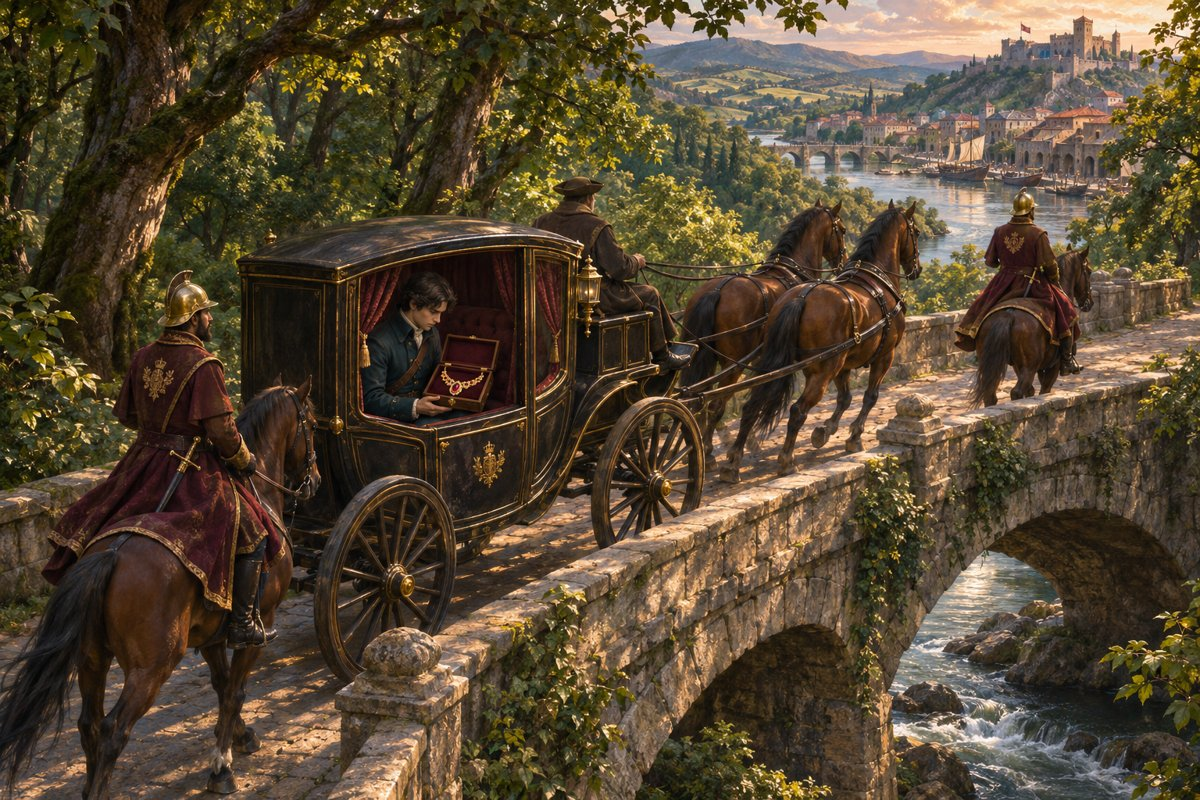
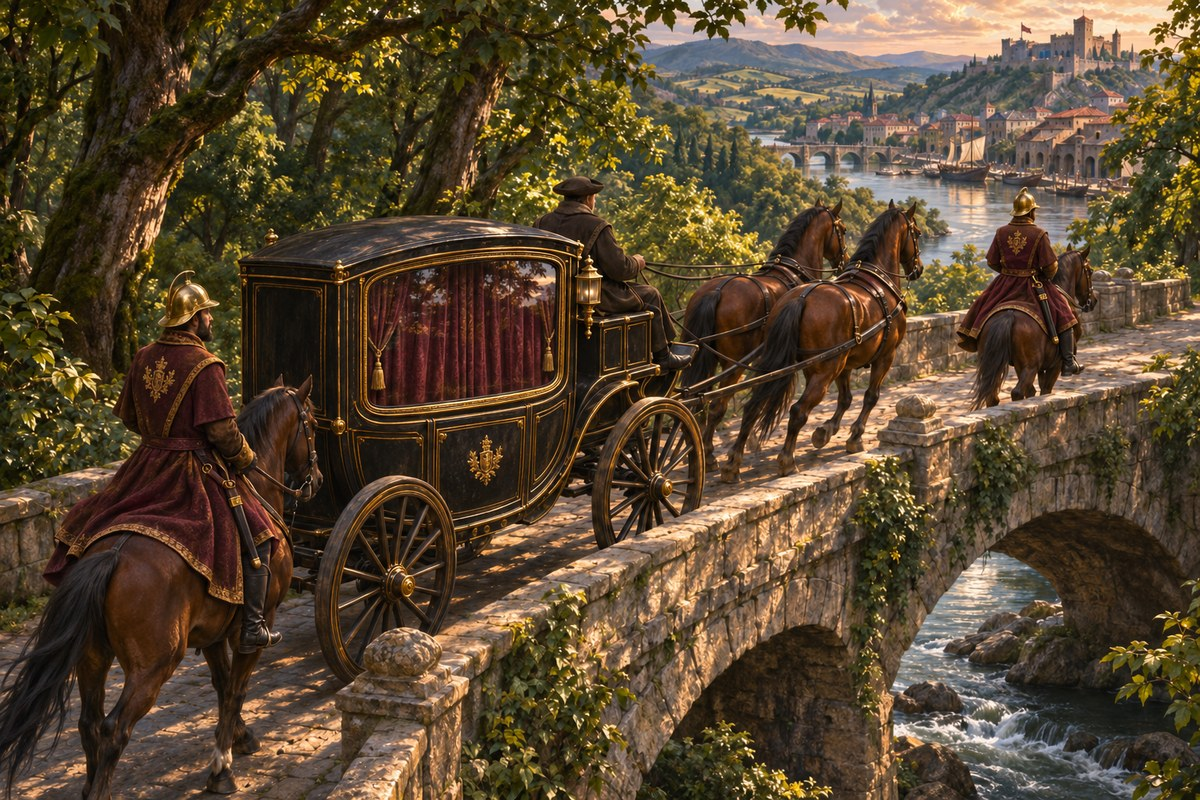
fix(art): secure Crownlands carriage and ceremonial arrival

diff --git a/PENDING_UPDATE.md b/PENDING_UPDATE.md
@@ -75,3 +75,7 @@ Neue obere Karte mit prächtigem Säulenbau und einheitlichen Kisten-Lorbeer-Sie
 ## Gesammelt: Safranstraßen-Tragekiste korrigiert
 
 Das fünfte Geschichtsbild (80–99 %) ist ersetzt: Die geschlossene, verzierte Kiste hängt mit erkennbarem Abstand unter einer durchgehenden Schulterstange. Zwei kräftige Seilschlingen um und unter der Kiste tragen die Last; Holzstangen durchdringen weder Kistenkörper noch Beschläge. Gewürzhof, Essenzflaschen und empfangender Händler bleiben erhalten. Motiv und Tragemechanik visuell geprüft, Produktions-JPEG 1200 × 800 vollständig dekodiert und Git-Blob-SHA beim Upload abgeglichen. Kein neuer App-Export oder Gerätetest. Noch nicht veröffentlicht.
+
+## Gesammelt: Kronenlande sicherer Transport und feierliche Ankunft
+
+Zwei Geschichtsbilder ersetzt: Auf der Steinbrücke bleibt der Schmuck sicher in der geschlossenen Kutsche; Glasfenster und Vorhänge sind geschlossen, Wachwaffen plausibel am Reiter geführt. Vor dem Stadttor hält dieselbe schwarz-goldene Kutsche, der Bote steigt gerade aus; aufgereihte Wachen und Zuschauer begrüßen ihn, die Schatulle bleibt verschlossen. Keine Änderungen an Fortschritt oder Spiellogik. Beide Motive visuell geprüft, Produktions-JPEGs mit je 1200 × 800 vollständig dekodiert und hochgeladene Git-Blob-SHAs mit den lokalen Dateien abgeglichen. Prompts und Änderungsherkunft dokumentiert. Noch nicht veröffentlicht.
